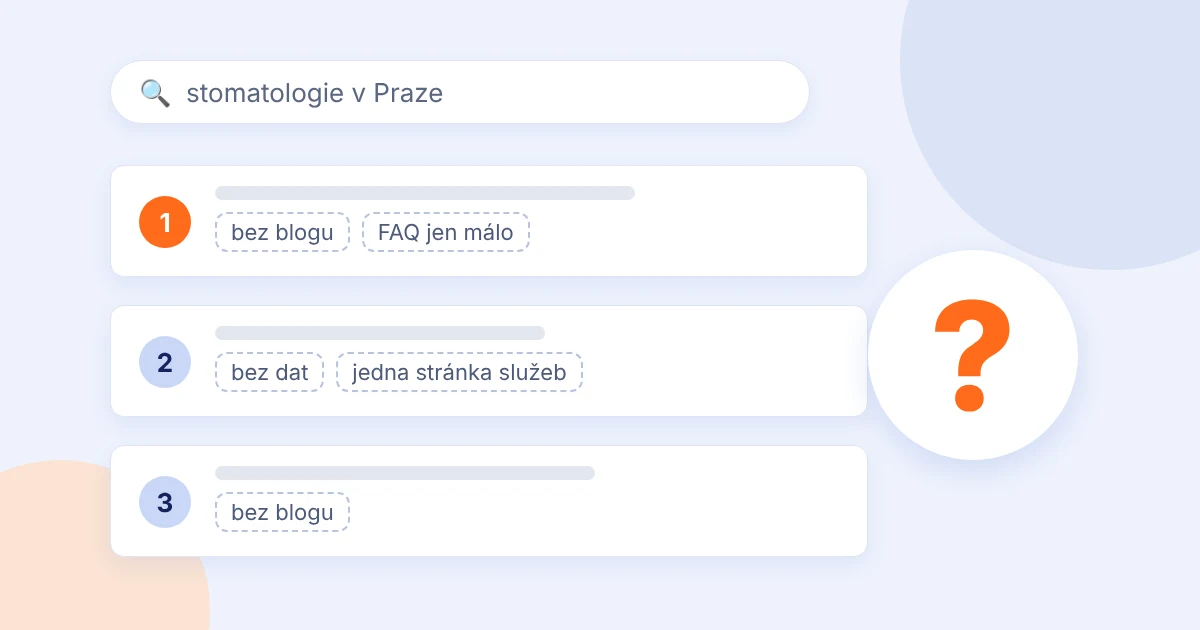
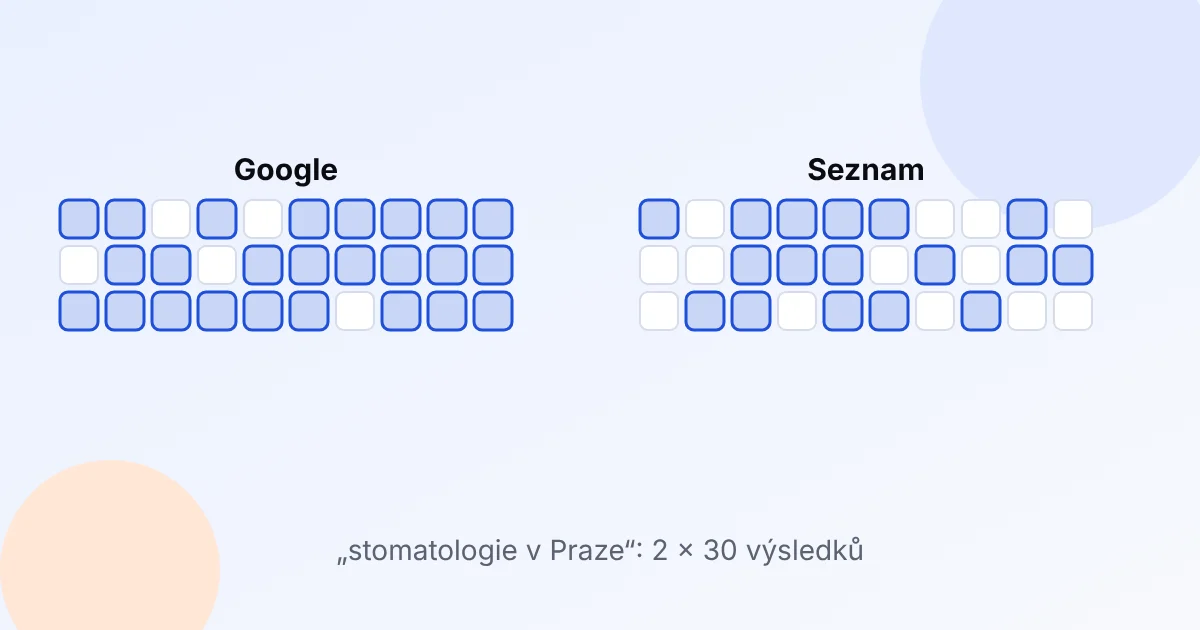
Dental article (slug stays): new Title 49 / H1 73 / Description 128, neutral cover, contents ids, date 15. 11. 2026
Claude-Session: https://claude.ai/code/session_01QabQhTep5srFpW5AV9ZHAy

diff --git a/src/i18n/meta.ts b/src/i18n/meta.ts
@@ -401,10 +401,10 @@ const META_BASE: Record<PageKey, Record<'cs' | 'en' | 'ru', PageMeta>> = {
   },
   postWeakSeoDental: {
     cs: {
-      name: 'Slabé SEO konkurence u zubní ordinace',
-      title: 'Slabé SEO zubních ordinací | Eranosian',
-      description: 'Proč bývá ve vyhledávání vpředu zubní ordinace se slabým webem: pozorování u 14 webů, hypotézy a to, co z toho nevyplývá.',
-      h1: 'Proč jsou ve vyhledávání vpředu i zubní ordinace se slabým SEO?',
+      name: 'Co jsem zjistil ve výsledcích Googlu a Seznamu pro „stomatologie v Praze“',
+      title: 'Stomatologie v Praze: co jsem zjistil | Eranosian',
+      description: 'K 15. 11. 2026 jsem na Googlu a Seznamu prošel po 30 výsledcích dotazu „stomatologie v Praze“ a spočítal, co mají weby ordinací.',
+      h1: 'Co jsem zjistil ve výsledcích Googlu a Seznamu pro „stomatologie v Praze“',
     },
     en: { name: 'Weak SEO competitors of dental practices', title: 'Weak SEO competitors of dental practices', description: 'Weak SEO competitors of dental practices', h1: 'Why do dental practices with weak SEO rank ahead?' },
     ru: { name: 'Слабое SEO у конкурентов-стоматологий', title: 'Слабое SEO у конкурентов-стоматологий', description: 'Слабое SEO у конкурентов-стоматологий', h1: 'Почему в поиске выше и стоматологии со слабым SEO?' },

diff --git a/src/data/toc-ids.ts b/src/data/toc-ids.ts
@@ -43,7 +43,7 @@ export const TOC_IDS: Record<string, string[]> = {
   '/blog/slabe-seo-konkurence-prekladatelske-agentury/': ['vysledky', 'weby', 'nedostatky', 'konkurence', 'doporuceni', 'faq'],
   '/blog/slabe-seo-konkurence-realitni-kancelare/': ['praha', 'brno', 'hodnoceni', 'proc-vpredu', 'ai-prehledy', 'kontrola', 'faq'],
   '/blog/slabe-seo-konkurence-ucetni-kancelare/': ['vysledky', 'plyne', 'kontrola', 'proc-vpredu', 'faq'],
-  '/blog/slabe-seo-konkurence-zubni-ordinace/': ['vysledky', 'plyne', 'kontrola', 'proc-vpredu', 'faq'],
+  '/blog/slabe-seo-konkurence-zubni-ordinace/': ['zpusob', 'okoli', 'puvod', 'nalezy', 'nevyplyva', 'kontrola', 'faq', 'dalsi-clanky'],
   '/blog/stranka-pro-kazdy-jazykovy-par/': ['rozdil', 'smysl', 'poptavka', 'obsah', 'sablona', 'ostatni', 'audit', 'agentury-praha', 'faq'],
   '/blog/stranky-ctvrti-a-lokalit-realitni-kancelare/': ['definice', 'otazky', 'obsah', 'sablony', 'pocet', 'nabidky', 'aktualnost', 'faq', 'souvisejici'],
   '/blog/stranky-sluzeb-ucetni-kancelare/': ['kdy', 'slozeni', 'uvod', 'pro-koho', 'postup', 'nazev-url', 'propojeni', 'chyby', 'faq', 'souvisejici'],
